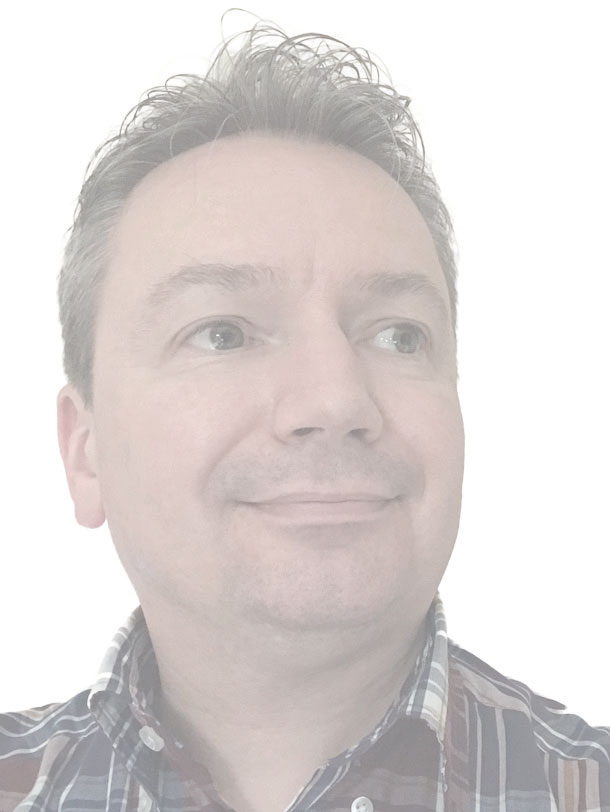
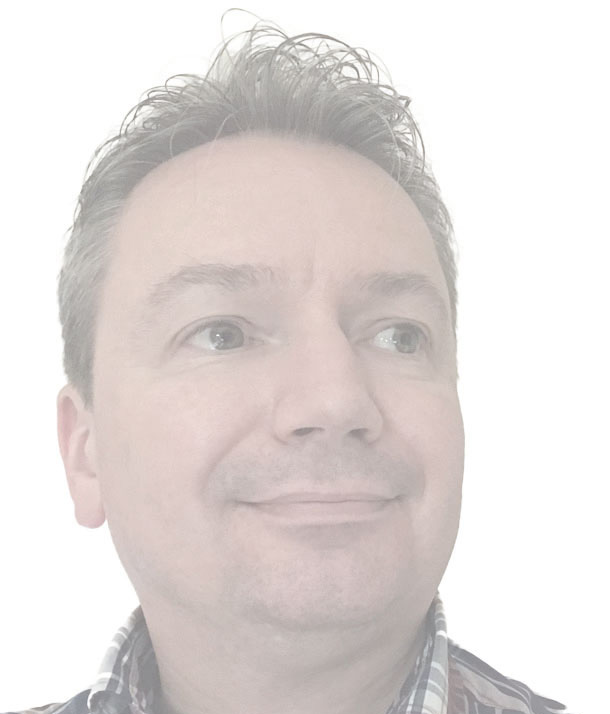
commit various changes and additions

diff --git a/assets/css/style.css b/assets/css/style.css
@@ -58,19 +58,15 @@ body {
 	bottom: 0;
 }
 
-.home-container-3 {
-	width: 100%;
-	margin: 0;
-}
-
 .experience-container {
 	margin: 0;
 	padding: 0;
 	width: 100%;
+	background:url('../images/Selfie_bright.jpg') no-repeat left bottom;
 	align-content: center;
 	position: relative;
 	background-color: white;
-	background-size: cover;
+	background-size: 30%;
 }
 
 .projects-container {
@@ -121,6 +117,7 @@ body {
 	margin: 0;
 	padding: 0;
 	width: 100%;
+	height: 100vh;
 	align-content: center;
 	position: relative;
 	background-color: white;

diff --git a/index.html b/index.html
@@ -174,6 +174,8 @@
     Django<br>
   </p>
 </div>
+	</div>
+	</div>
 
 <!--/.Projects --> 
 
